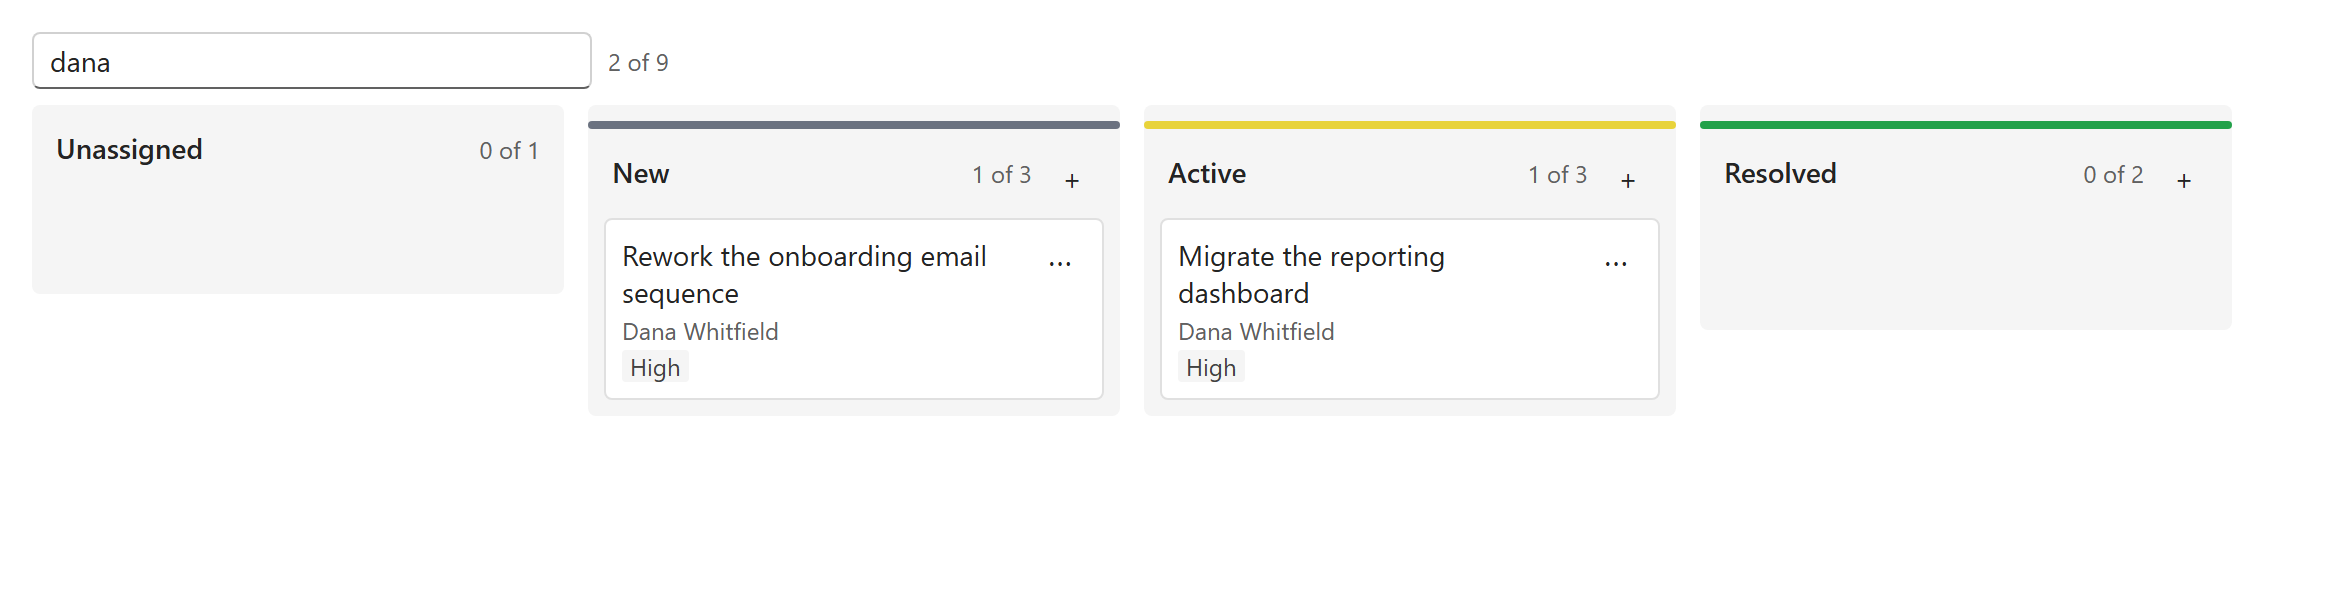
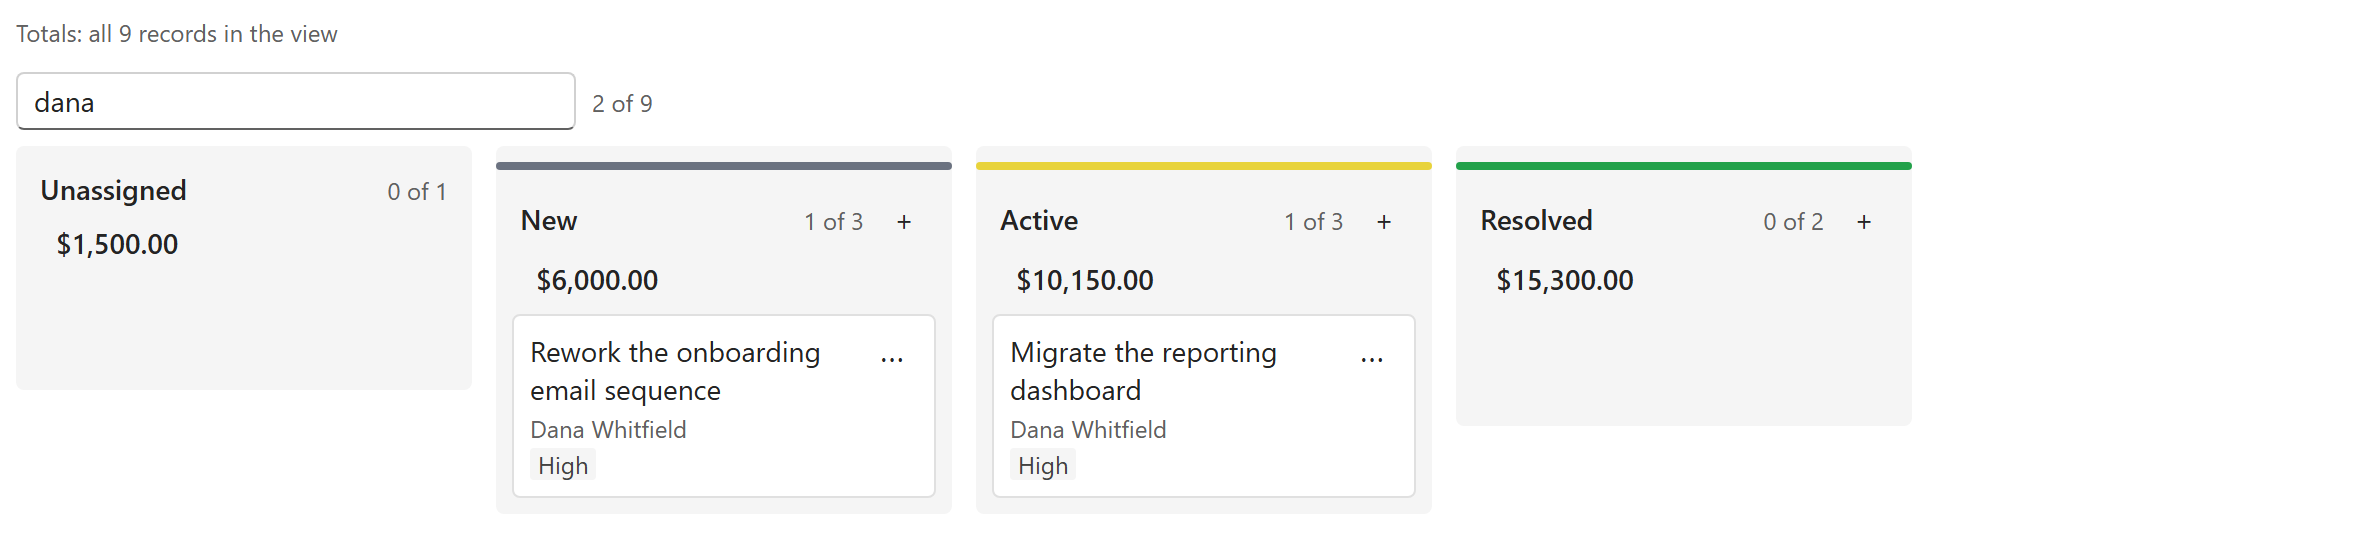
Screenshots from a script: the board, lane totals, lane limits and search
dev/shots.js is pcf-row-commands' headless-Chrome recipe pointed at
dev/preview.html, at device scale 2 (the published width), so the
pictures are retaken on a release rather than by hand; npm run shots.

- screenshot-totals.png: five cards of nine loaded, the caption "all 9
  records in the view", each lane's sum, "2 of 3" and "0 of 2".
- screenshot-limits.png: New at its limit (3 / 3), Active over it (3 / 2)
  in the warning colour.
- screenshot-board.png and screenshot-search.png retaken for 0.4.0, which
  draws the totals on every demo preset; the search finds two cards by
  assignee ("dana") rather than eight of nine.

The preview gained ?view=1 (a view over the whole table, so the totals are
the rig's aggregate, as on a form) and reads the demo fixture's option set
from its dataverse block - the first take had lanes titled 1, 2 and 3. Both
new pictures are in pcfhub.json and on model-driven.md; the overview's alt
text describes the new board.

diff --git a/dev/shots.js b/dev/shots.js
@@ -1,0 +1,179 @@
+/*
+ * Retake every screenshot in `media/` from the preview.
+ *
+ *     npm run preview -- --no-open --port 8105     # in one shell
+ *     npm run shots                                # in another
+ *
+ * **The recipes live here, not in a person's shell history.** A stale
+ * screenshot is a documented claim about a version that no longer exists, and
+ * the only defence is a retake cheap enough to run on every release. The
+ * pictures through 0.3.x were taken by hand; this is `pcf-row-commands`'
+ * script, pointed at `dev/preview.html`, whose URL switches reach every state
+ * the board has — so a recipe here is a query string, plus a drag where one is
+ * needed.
+ *
+ * Headless Chrome over the DevTools protocol with Node's own `WebSocket` — no
+ * dependency. At device scale 2, the width the published pictures have.
+ */
+
+'use strict';
+
+const { spawn } = require('child_process');
+const fs = require('fs');
+const os = require('os');
+const path = require('path');
+
+const root = path.join(__dirname, '..');
+const media = path.join(root, 'media');
+
+const CHROME = process.env.CHROME || [
+    'C:/Program Files/Google/Chrome/Application/chrome.exe',
+    'C:/Program Files (x86)/Google/Chrome/Application/chrome.exe',
+    '/usr/bin/google-chrome',
+    '/Applications/Google Chrome.app/Contents/MacOS/Google Chrome',
+].find((candidate) => fs.existsSync(candidate));
+
+const PORT = process.env.PORT || 8105;
+const BASE = `http://localhost:${PORT}/dev/preview.html`;
+const DEBUG_PORT = 9338;
+const WIDTH = 1164;
+
+/** name, what it is for, the preview's query string, and anything to do once it has rendered. */
+const SHOTS = [
+    ['screenshot-board.png', 'the demo board: lanes from the option set, a sum under each, what the sums are over',
+        'fixture=demo&view=1&lane=212', ''],
+    ['screenshot-search.png', 'the search narrowing every lane by title, assignee or badge — "dana" finds two cards by their assignee',
+        'fixture=demo&view=1&lane=212&search=dana', ''],
+    ['screenshot-totals.png', 'Lane total over a paged board: the view\'s sums, "1 of 3" where more are counted than loaded',
+        'fixture=demo&view=1&lane=212&page=5', ''],
+    ['screenshot-limits.png', 'Lane limits: Active over its limit of two, New at its limit of three',
+        'fixture=demo&view=1&lane=212&limits=2%3D2,1%3D3', ''],
+];
+
+if (!CHROME) {
+    console.error('\n  No Chrome found. Set CHROME to its path.\n');
+    process.exit(1);
+}
+
+const sleep = (ms) => new Promise((resolve) => setTimeout(resolve, ms));
+
+async function json(url) {
+    for (let attempt = 0; attempt < 50; attempt += 1) {
+        try {
+            const response = await fetch(url);
+
+            if (response.ok) {
+                return await response.json();
+            }
+        } catch {
+            // Not listening yet.
+        }
+
+        await sleep(200);
+    }
+
+    throw new Error(`Nothing answered at ${url}.`);
+}
+
+function connect(url) {
+    const socket = new WebSocket(url);
+    const waiting = new Map();
+    let next = 0;
+
+    socket.addEventListener('message', (event) => {
+        const message = JSON.parse(event.data);
+        const pending = waiting.get(message.id);
+
+        if (pending) {
+            waiting.delete(message.id);
+            message.error ? pending.reject(new Error(message.error.message)) : pending.resolve(message.result);
+        }
+    });
+
+    return new Promise((resolve, reject) => {
+        socket.addEventListener('error', reject);
+        socket.addEventListener('open', () =>
+            resolve({
+                send(method, params = {}) {
+                    next += 1;
+                    socket.send(JSON.stringify({ id: next, method, params }));
+
+                    return new Promise((ok, fail) => waiting.set(next, { resolve: ok, reject: fail }));
+                },
+                close() {
+                    socket.close();
+                },
+            }),
+        );
+    });
+}
+
+async function evaluate(cdp, expression) {
+    const { result, exceptionDetails } = await cdp.send('Runtime.evaluate', {
+        expression,
+        awaitPromise: true,
+        returnByValue: true,
+    });
+
+    if (exceptionDetails) {
+        throw new Error(exceptionDetails.exception?.description || exceptionDetails.text);
+    }
+
+    return result.value;
+}
+
+(async () => {
+    try {
+        await fetch(BASE);
+    } catch {
+        console.error(`\n  The preview is not being served at ${BASE}.\n  Run npm run preview -- --no-open --port ${PORT} first.\n`);
+        process.exit(1);
+    }
+
+    const profile = fs.mkdtempSync(path.join(os.tmpdir(), 'pcf-shots-'));
+    const browser = spawn(CHROME, [
+        '--headless=new',
+        '--disable-gpu',
+        '--hide-scrollbars',
+        `--remote-debugging-port=${DEBUG_PORT}`,
+        `--user-data-dir=${profile}`,
+        'about:blank',
+    ], { stdio: 'ignore' });
+
+    try {
+        const targets = await json(`http://127.0.0.1:${DEBUG_PORT}/json/list`);
+        const page = targets.find((target) => target.type === 'page');
+        const cdp = await connect(page.webSocketDebuggerUrl);
+
+        await cdp.send('Page.enable');
+        await cdp.send('Runtime.enable');
+        await cdp.send('Emulation.setDeviceMetricsOverride', { width: WIDTH + 32, height: 1200, deviceScaleFactor: 2, mobile: false });
+
+        for (const [name, purpose, query, after] of SHOTS) {
+            await cdp.send('Page.navigate', { url: `${BASE}?width=${WIDTH}&${query}` });
+            // The option set, the totals and the search all arrive through effects.
+            await sleep(1500);
+
+            if (after) {
+                await evaluate(cdp, `(async () => { ${after} })()`);
+                await sleep(600);
+            }
+
+            const clip = await evaluate(cdp, `(() => {
+                const box = document.querySelector('.KanbanBoard').getBoundingClientRect();
+                return { x: Math.max(0, box.left - 8), y: Math.max(0, box.top + window.scrollY - 8), width: Math.ceil(box.width + 16), height: Math.ceil(box.height + 16), scale: 1 };
+            })()`);
+            const shot = await cdp.send('Page.captureScreenshot', { format: 'png', clip, captureBeyondViewport: true });
+
+            fs.writeFileSync(path.join(media, name), Buffer.from(shot.data, 'base64'));
+            console.log(`  ${name.padEnd(24)} ${clip.width * 2}×${clip.height * 2}  ${purpose}`);
+        }
+
+        cdp.close();
+    } finally {
+        browser.kill();
+    }
+})().catch((error) => {
+    console.error(error);
+    process.exit(1);
+});

diff --git a/dev/preview.html b/dev/preview.html
@@ -170,6 +170,45 @@
             var response = await fetch('../demo/records.json');
 
             fixture = await response.json();
+
+            /*
+              The demo describes its option set the hub harness's way —
+              `dataverse.tables[table].columns[column].options` — and the rig
+              reads `metadata[column]`. Translated here, so the preview's lanes
+              are the demo's: New, Active, Resolved, in their colours, rather
+              than 1, 2 and 3 derived from the cards.
+            */
+            var table = ((fixture.dataverse || {}).tables || {})[fixture.targetEntityType] || {};
+            var metadata = {};
+
+            Object.keys(table.columns || {}).forEach(function (column) {
+                var options = table.columns[column].options;
+
+                if (options) {
+                    metadata[column] = { shape: 'descriptor', options: options };
+                }
+            });
+
+            fixture = Object.assign({}, fixture, { metadata: metadata });
+        }
+
+        /*
+          `?view=1` gives a fixture without one a view of its whole table, so
+          the lane totals come from the rig's aggregate — "all 9 records in
+          the view", what a form shows — rather than from the cards. The demo
+          fixture has none because the hub's harness answers no FetchXML.
+        */
+        if (params.get('view') === '1' && !fixture.viewId) {
+            fixture = Object.assign({}, fixture, {
+                viewId: '00000000-0000-0000-0000-00000000f1e3',
+                views: {
+                    '00000000-0000-0000-0000-00000000f1e3': {
+                        table: 'savedquery',
+                        name: fixture.title,
+                        fetchxml: '<fetch><entity name="' + fixture.targetEntityType + '"></entity></fetch>',
+                    },
+                },
+            });
         }
 
         if (params.get('empty') === '1') {

diff --git a/docs/model-driven.md b/docs/model-driven.md
@@ -90,6 +90,8 @@ Bind **Lane total** to a number or currency column and each lane shows the sum
 of that column under its name — the pipeline's value by stage. A line above the
 lanes says what the sums are over:
 
+::image{src=media/screenshot-totals.png alt="A board with five cards of nine loaded: the line above the lanes reads Totals: all 9 records in the view, each lane shows its sum under its name, and Active reads 2 of 3 and Resolved 0 of 2 where Dataverse counted more cards than are loaded, with Load more below" zoom}
+
 | The line reads | Where the sums come from |
 | --- | --- |
 | *Totals: all 12 records in the view* | Dataverse, over every record the view means — cards not loaded yet included |
@@ -123,6 +125,8 @@ that is not related to the record at all.
 **Lane limits** caps how many cards a lane should hold: `858010001=5,2=3` — a
 lane's option value, then its limit. The lane's count then reads *4 / 5*, and a
 lane over its limit shows the count in the warning colour.
+
+::image{src=media/screenshot-limits.png alt="Lane limits on the board: New reads 3 / 3, at its limit, and Active reads 3 / 2 in the warning colour, over its limit, while every lane still shows its total" zoom}
 
 It is a warning, not a lock. A card can still be dropped into a full lane,
 because the board would be the only thing enforcing a rule that people editing

diff --git a/docs/overview.md b/docs/overview.md
@@ -8,7 +8,7 @@ order: 1
 
 A Dataverse view as a drag-and-drop board, grouped by a choice column.
 
-::image{src=media/screenshot-board.png alt="A sprint board: a search box above four lanes, each headed by its option, a count and a + button, with cards showing a title, an assignee and a priority badge" zoom}
+::image{src=media/screenshot-board.png alt="A sprint board: the line Totals: all 9 records in the view and a search box above four lanes — Unassigned, New, Active and Resolved, each in its option's colour — each headed by its name, a count and a + button with the lane's total under it, and cards showing a title, an assignee and a priority badge" zoom}
 
 Bind it to a view, tell it which column holds the status and which holds the
 card title, and every record becomes a card in the lane matching its choice
